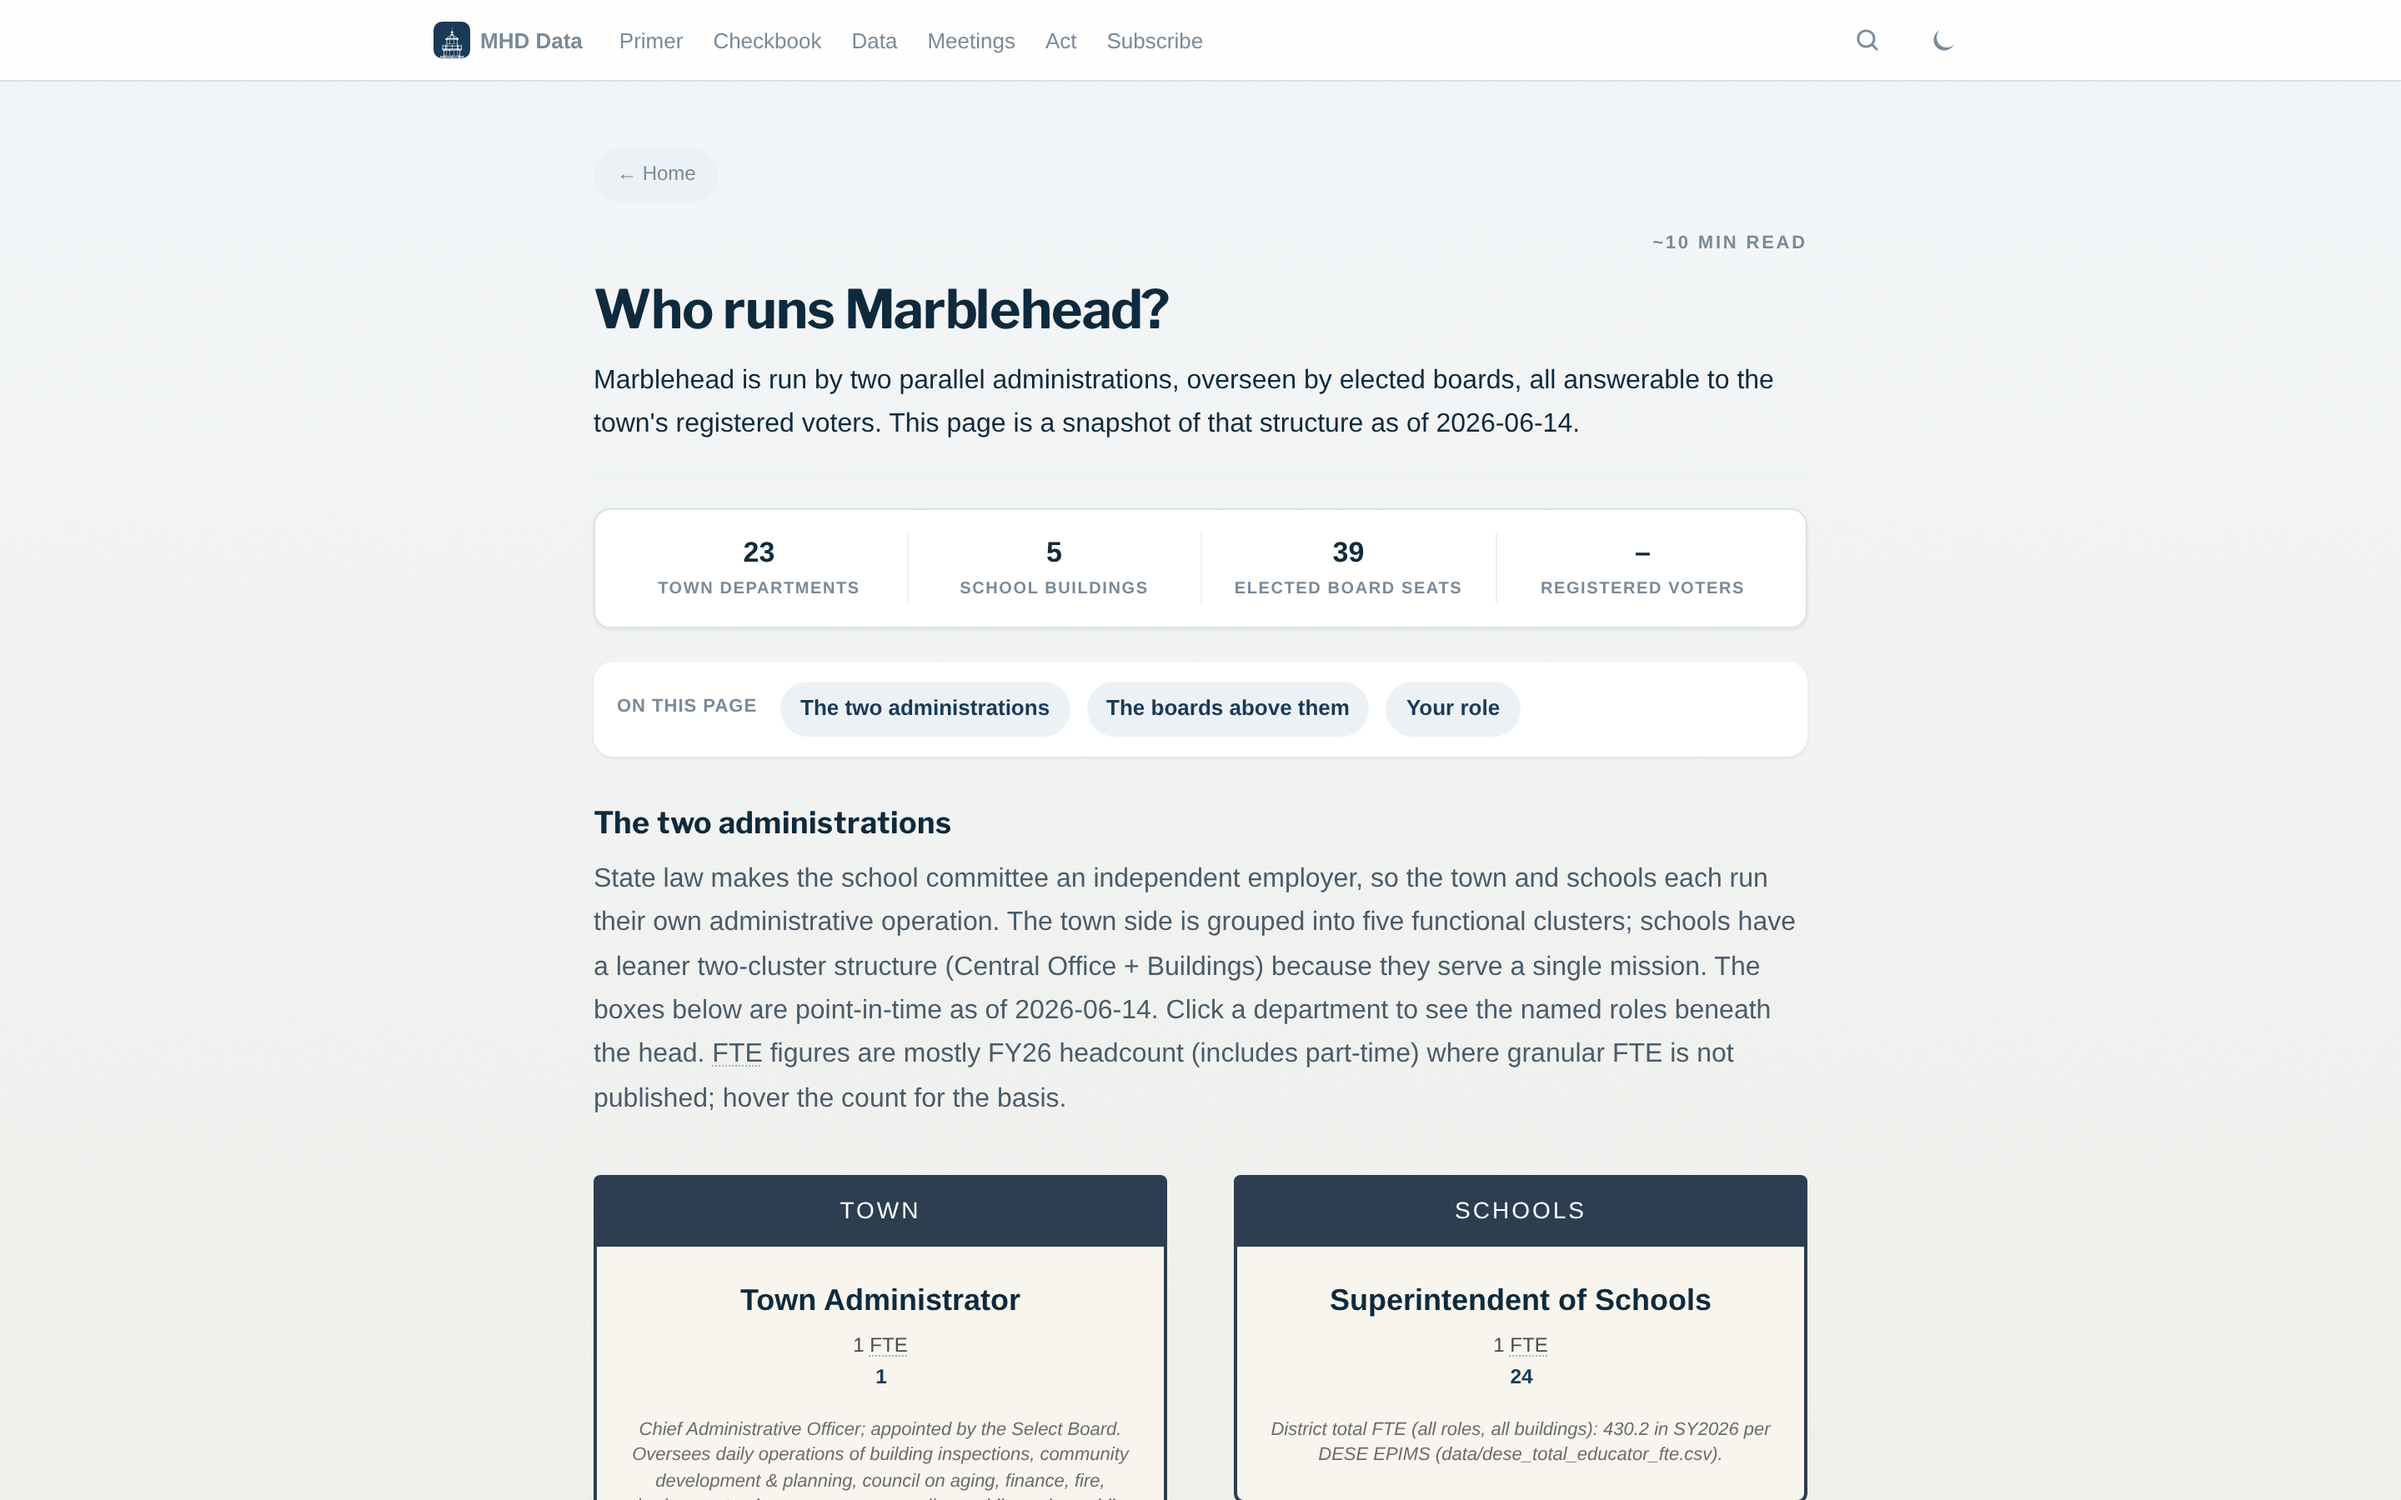
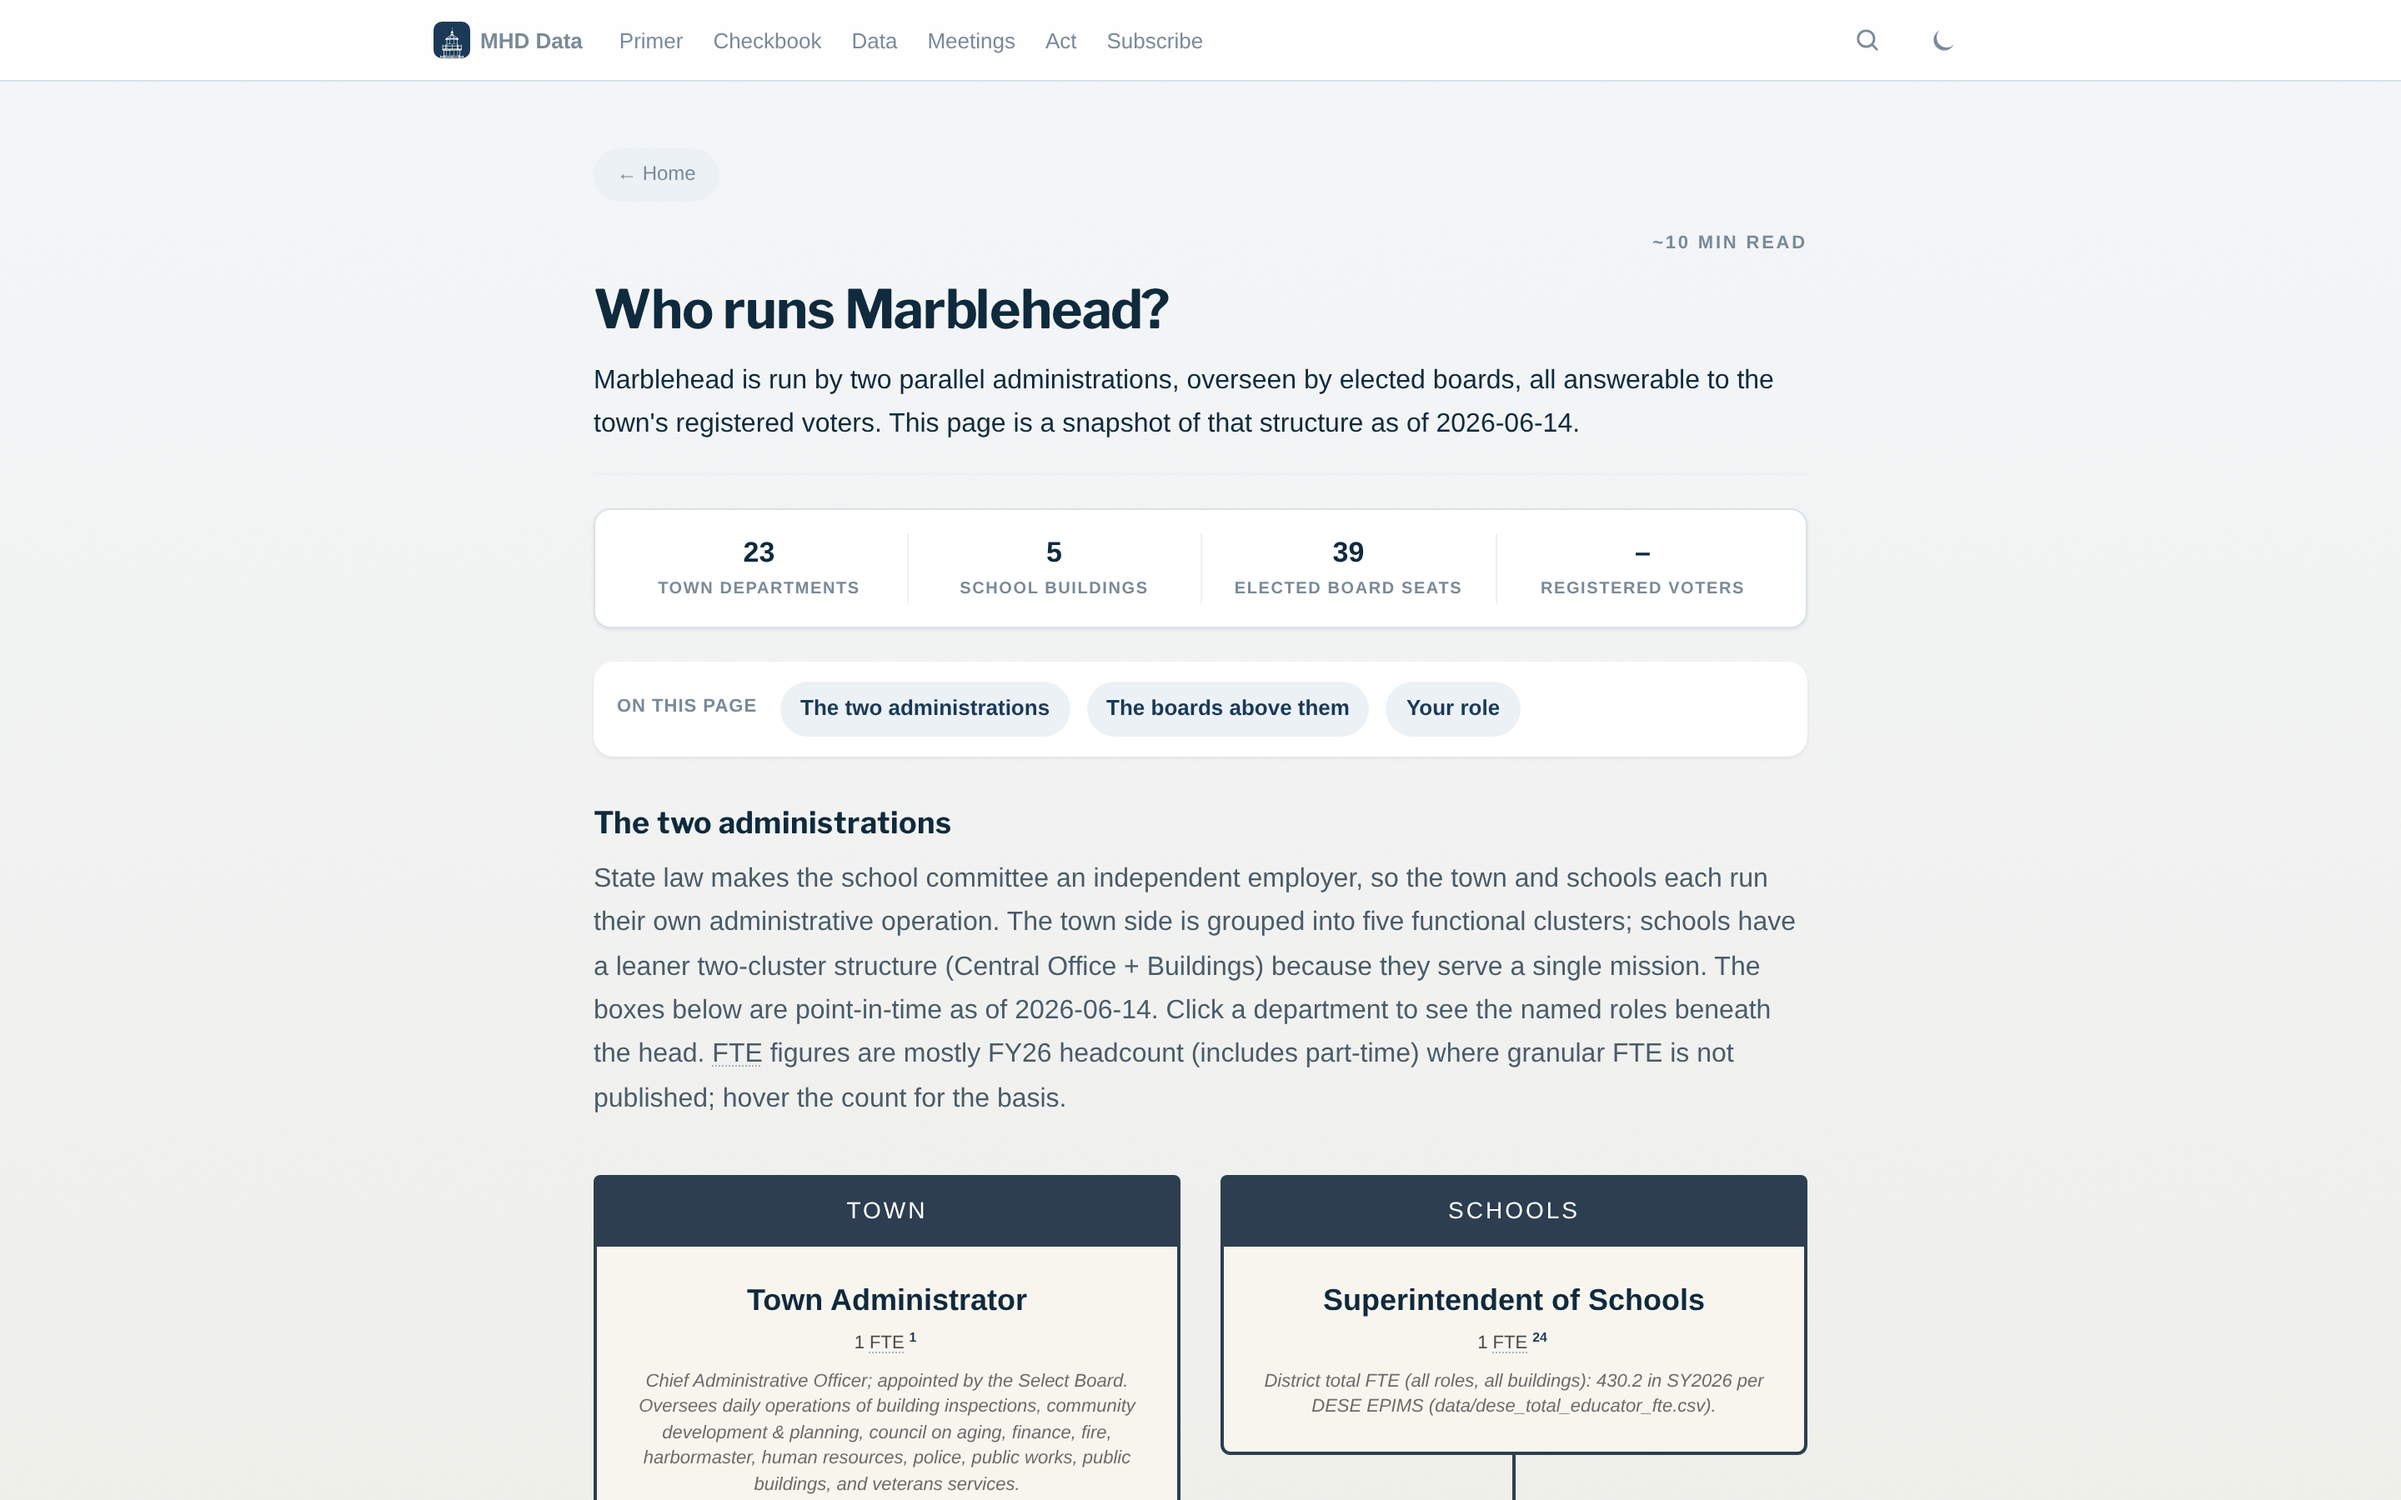
Tighten org chart card layout: 2-up clusters, inline citations, fix em-dash

diff --git a/org-chart.html b/org-chart.html
@@ -45,8 +45,7 @@ og_url: https://marbleheaddata.org/org-chart.html
     <div class="org-column-header">Town</div>
     <div class="org-root">
       <span class="org-root-title">{{ site.data.org_chart.town.head.title }}</span>
-      <span class="org-card-fte">{{ site.data.org_chart.town.head.fte }} <abbr class="g" title="Full-Time Equivalent">FTE</abbr></span>
-      <sup class="cite" data-href="{{ site.data.org_chart.town.head.source_url }}" data-source="{{ site.data.org_chart.town.head.source_label }}"></sup>
+      <span class="org-card-fte">{{ site.data.org_chart.town.head.fte }} <abbr class="g" title="Full-Time Equivalent">FTE</abbr><sup class="cite" data-href="{{ site.data.org_chart.town.head.source_url }}" data-source="{{ site.data.org_chart.town.head.source_label }}"></sup></span>
       {% if site.data.org_chart.town.head.note %}<p class="org-card-note">{{ site.data.org_chart.town.head.note }}</p>{% endif %}
     </div>
 
@@ -64,10 +63,10 @@ og_url: https://marbleheaddata.org/org-chart.html
               <span{% if dept.fte_basis %} title="{{ dept.fte_basis }}"{% endif %}>{{ dept.fte }}</span>
               <abbr class="g" title="Full-Time Equivalent">FTE</abbr>
             {% else %}
-              <span title="{{ dept.fte_null_reason }}">&mdash;</span>
+              <span title="{{ dept.fte_null_reason }}">&ndash;</span>
             {% endif %}
+            <sup class="cite" data-href="{{ dept.source_url }}" data-source="{{ dept.source_label }}"></sup>
           </span>
-          <sup class="cite" data-href="{{ dept.source_url }}" data-source="{{ dept.source_label }}"></sup>
           {% if dept.staff and dept.staff.size > 0 %}
           <details>
             <summary>staff</summary>
@@ -88,8 +87,7 @@ og_url: https://marbleheaddata.org/org-chart.html
     <div class="org-column-header">Schools</div>
     <div class="org-root">
       <span class="org-root-title">{{ site.data.org_chart.schools.head.title }}</span>
-      <span class="org-card-fte">{{ site.data.org_chart.schools.head.fte }} <abbr class="g" title="Full-Time Equivalent">FTE</abbr></span>
-      <sup class="cite" data-href="{{ site.data.org_chart.schools.head.source_url }}" data-source="{{ site.data.org_chart.schools.head.source_label }}"></sup>
+      <span class="org-card-fte">{{ site.data.org_chart.schools.head.fte }} <abbr class="g" title="Full-Time Equivalent">FTE</abbr><sup class="cite" data-href="{{ site.data.org_chart.schools.head.source_url }}" data-source="{{ site.data.org_chart.schools.head.source_label }}"></sup></span>
       {% if site.data.org_chart.schools.head.note %}<p class="org-card-note">{{ site.data.org_chart.schools.head.note }}</p>{% endif %}
     </div>
 
@@ -105,10 +103,10 @@ og_url: https://marbleheaddata.org/org-chart.html
               <span{% if dept.fte_basis %} title="{{ dept.fte_basis }}"{% endif %}>{{ dept.fte }}</span>
               <abbr class="g" title="Full-Time Equivalent">FTE</abbr>
             {% else %}
-              <span title="{{ dept.fte_null_reason }}">&mdash;</span>
+              <span title="{{ dept.fte_null_reason }}">&ndash;</span>
             {% endif %}
+            <sup class="cite" data-href="{{ dept.source_url }}" data-source="{{ dept.source_label }}"></sup>
           </span>
-          <sup class="cite" data-href="{{ dept.source_url }}" data-source="{{ dept.source_label }}"></sup>
           {% if dept.staff and dept.staff.size > 0 %}
           <details>
             <summary>staff</summary>
@@ -135,10 +133,10 @@ og_url: https://marbleheaddata.org/org-chart.html
               <span{% if school.fte_basis %} title="{{ school.fte_basis }}"{% endif %}>{{ school.fte }}</span>
               <abbr class="g" title="Full-Time Equivalent">FTE</abbr>
             {% else %}
-              <span title="{{ school.fte_null_reason }}">&mdash;</span>
+              <span title="{{ school.fte_null_reason }}">&ndash;</span>
             {% endif %}
+            <sup class="cite" data-href="{{ school.source_url }}" data-source="{{ school.source_label }}"></sup>
           </span>
-          <sup class="cite" data-href="{{ school.source_url }}" data-source="{{ school.source_label }}"></sup>
           {% if school.note %}<p class="org-card-note">{{ school.note }}</p>{% endif %}
         </div>
         {% endfor %}

diff --git a/assets/site.css b/assets/site.css
@@ -4295,7 +4295,7 @@ body.me-subscription-page .ms-pref button[type="submit"] { background: var(--c-n
 .org-chart {
   display: grid;
   grid-template-columns: 1fr 1fr;
-  gap: 40px;
+  gap: 24px;
   margin: 32px 0;
   align-items: start;
 }
@@ -4353,7 +4353,7 @@ body.me-subscription-page .ms-pref button[type="submit"] { background: var(--c-n
 .org-cluster {
   border: 1px solid #d0d0d0;
   border-radius: 6px;
-  padding: 16px;
+  padding: 12px;
   background: #fafaf7;
   margin-bottom: 16px;
   position: relative;
@@ -4387,38 +4387,39 @@ body.me-subscription-page .ms-pref button[type="submit"] { background: var(--c-n
 
 .org-cluster-grid {
   display: grid;
-  grid-template-columns: repeat(auto-fit, minmax(180px, 1fr));
-  gap: 10px;
+  grid-template-columns: repeat(auto-fit, minmax(140px, 1fr));
+  gap: 8px;
 }
 
 .org-card {
   background: #fff;
   border: 1px solid #d0d0d0;
   border-radius: 4px;
-  padding: 12px;
-  font-size: 0.875rem;
+  padding: 10px;
+  font-size: 0.8125rem;
   display: flex;
   flex-direction: column;
-  min-height: 92px;
+  min-height: 80px;
 }
 
 .org-card-dept {
   font-weight: 700;
   display: block;
-  margin-bottom: 4px;
-  line-height: 1.25;
+  margin-bottom: 2px;
+  line-height: 1.2;
+  font-size: 0.8125rem;
 }
 
 .org-card-head {
   color: #4a4a4a;
-  font-size: 0.8125rem;
+  font-size: 0.75rem;
   display: block;
   margin-bottom: 4px;
   line-height: 1.3;
 }
 
 .org-card-fte {
-  font-size: 0.75rem;
+  font-size: 0.6875rem;
   color: #6b6b6b;
 }
 
